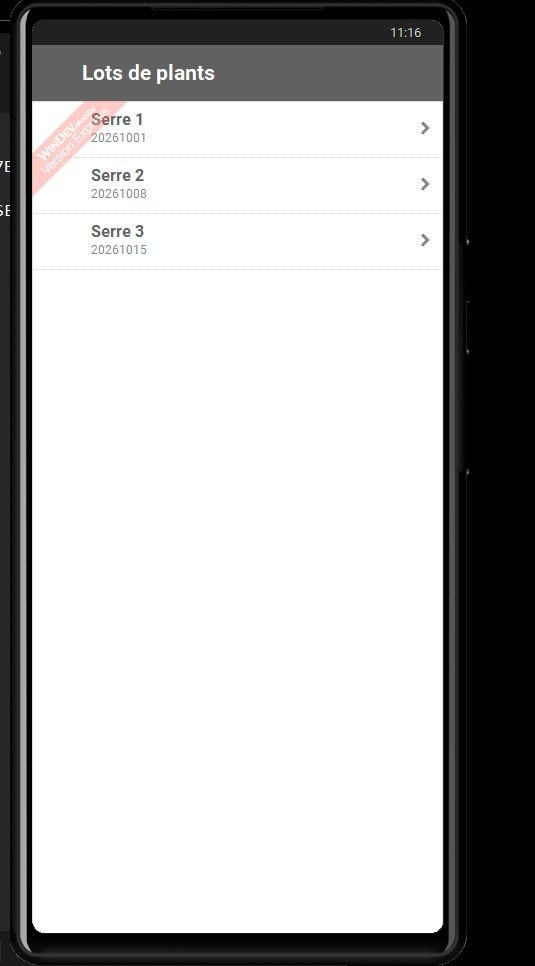
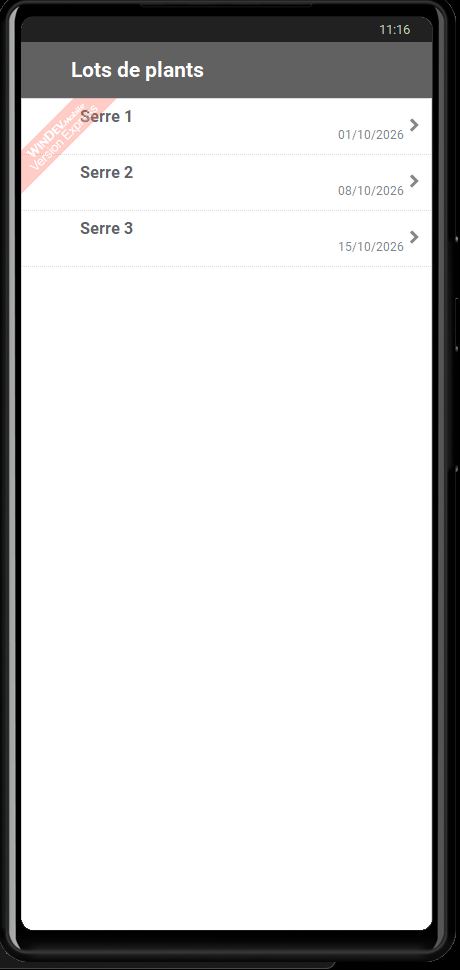
Mobile : dates affichées au format JJ/MM/AAAA
Claude-Session: https://claude.ai/code/session_01WPG8MZJp6KqKZD47o6MehY

Changed region(s): [[0.0, 0.0, 1.0, 1.0]]

diff --git a/docs/WINDEV_MOBILE.md b/docs/WINDEV_MOBILE.md
@@ -186,11 +186,11 @@ Code complet : [code/FEN_Liste_Lots_DeclarationsGlobales.wl](../code/FEN_Liste_L
 
 ### Étape 5.2 – Résultat
 
-Le simulateur Android affiche les **3 lots** (Serre 1, 2 et 3) avec leur date de semis, lus dans le fichier HFSQL du téléphone.
+Le simulateur Android affiche les **3 lots** (Serre 1, 2 et 3) avec leur date de semis au format JJ/MM/AAAA, lus dans le fichier HFSQL du téléphone.
 
 ![Lots dans le simulateur](../screenshots/mobile/m20-simulateur-lots.png)
 
-Amélioration immédiate : afficher la date au format JJ/MM/AAAA (type Date et masque d'affichage sur le libellé).
+Le libellé de date est réglé en type **Date** avec le masque **JJ/MM/AAAA** (onglet Général du champ), pour afficher 01/10/2026 au lieu de la valeur brute 20261001.
 
 ---
 
